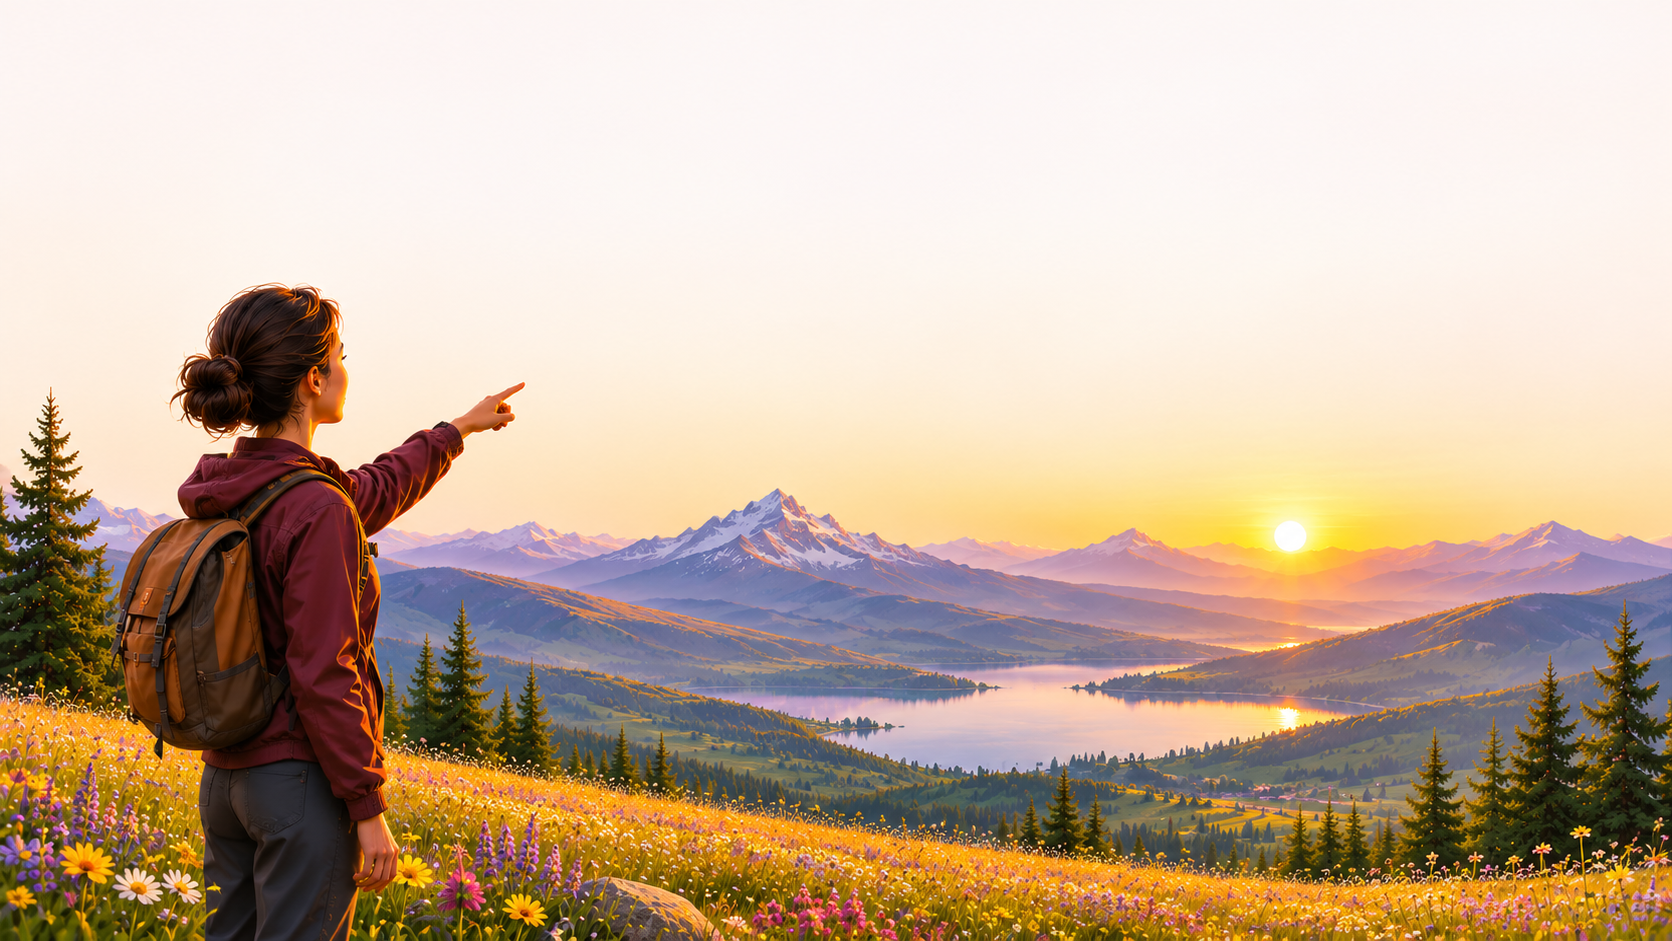
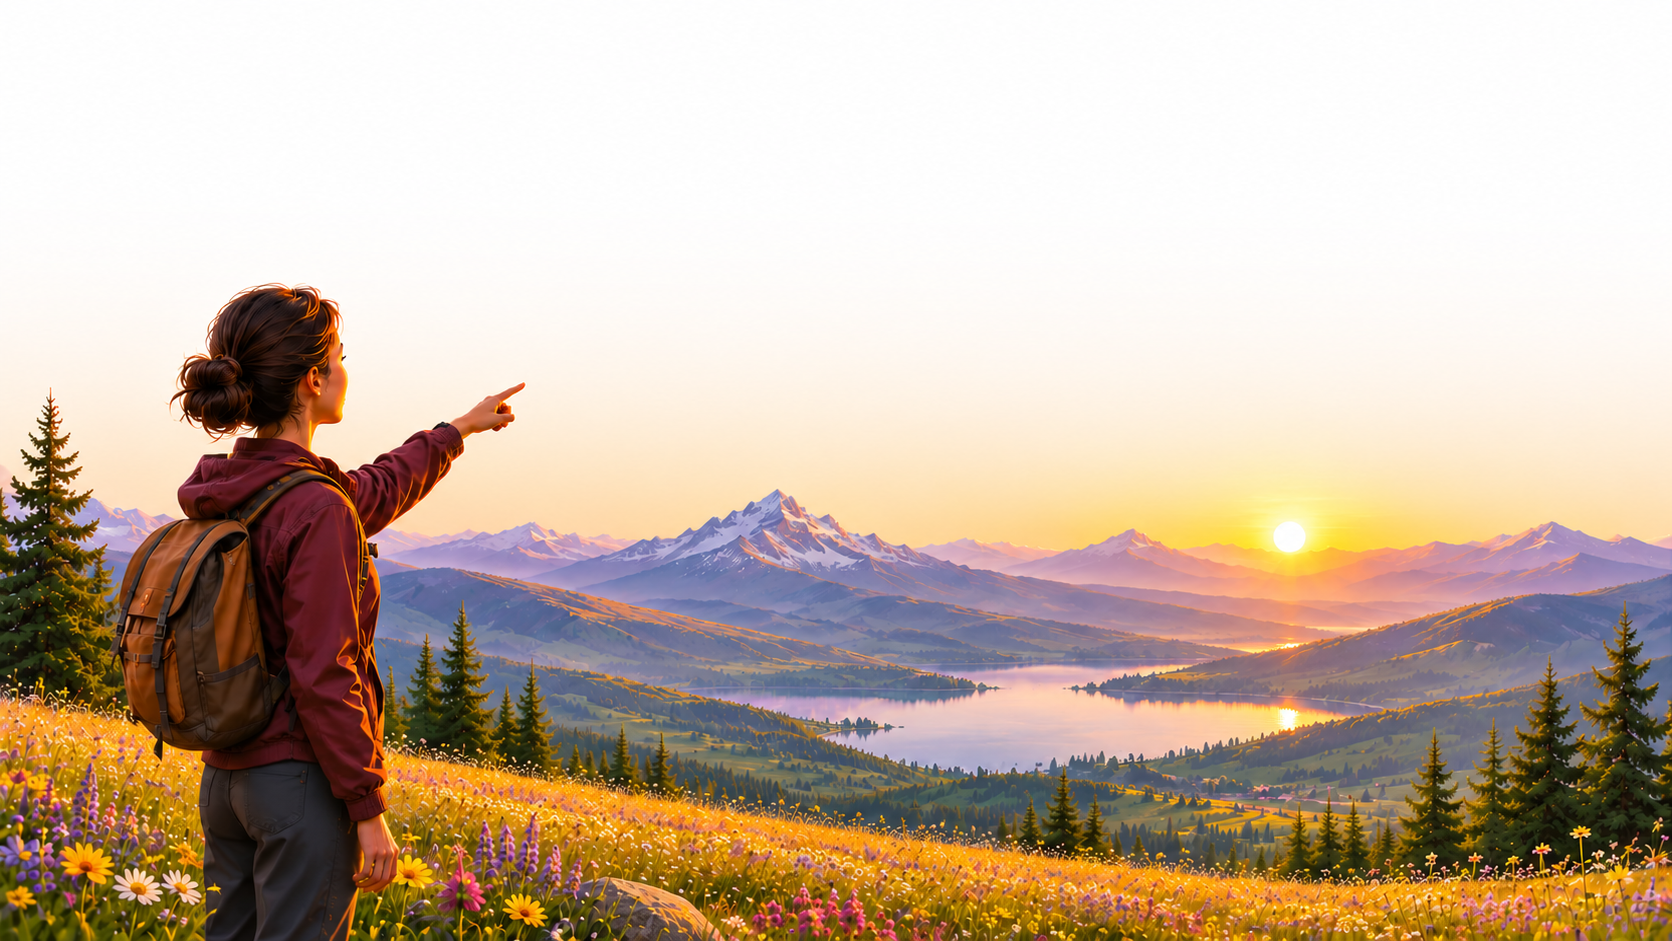
Replace Explorer CTA image with wildflower meadow photo

diff --git a/src/components/verena/VerenaHomepage.tsx b/src/components/verena/VerenaHomepage.tsx
@@ -3342,7 +3342,7 @@ export function VerenaHomepage() {
         <div className="relative mt-12 w-full">
           <img
             src={ctaExplorer}
-            alt="A woman with a backpack standing on a ridge, pointing toward distant mountains at sunset"
+            alt="A woman with a backpack standing in a wildflower meadow, pointing toward distant mountains at sunset"
             loading="lazy"
             className="block h-auto w-full"
           />
